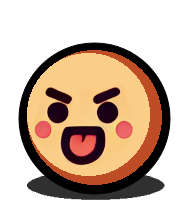
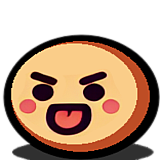
Добавлены методы для оживления колобка

diff --git a/game/engine.py b/game/engine.py
@@ -1,47 +1,90 @@
 # Основные механики игры
 import pygame as pg
 import time
-from game.resources import load_resources, load_music
+import game.resources as res
 from game.input_handler import handle_events
 
 
 class GameEngine:
-    x = 235
-    y = 28
+    kolobok_height = 50
+    old_kolobok_x = 260
+    old_kolobok_y = 28
+    kolobok_x = old_kolobok_x
+    kolobok_y = old_kolobok_y
+    # Параметры платформ
+    top_platform_y = old_kolobok_y + kolobok_height
+    bottom_platform_y = 650
+    top_platform_length = 300
+    bottom_platform_length = 1000
+    kolobok_running = False
+    # Физические параметры
+    gravity = 5
+    new_x_speed = 5
+    x_speed = 0
+    y_speed = -1
+    falling = False
+    time_elapsed = 0
 
     def __init__(self):
         self.clock = pg.time.Clock()
-        self.font28, self.font22, self.bg, self.kolobok, self.lisa, self.medved, self.zayac = load_resources()
-        self.medved = pg.transform.flip(self.medved, True, False)  # Отражение по горизонтали
+        self.font28, self.font22 = res.load_fonts()
+        self.bg, self.kolobok, self.lisa, self.medved, self.zayac = res.load_images()
 
     def run(self, screen):
-        load_music()
+        res.load_music()
         pg.mixer.music.play(loops=-1)
         pg.mixer.music.set_volume(0.125)
         running = True
         while running:
             running = handle_events()
             if running == 'L':
-                self.x -= 1
-            if running == 'R':
-                self.x += 1
-            if running == 'U':
-                self.y -= 1
-            if running == 'D':
-                self.y += 1
-            self.update(screen)
+                running = True
+                self.kolobok_x = self.old_kolobok_x
+                self.kolobok_y = self.old_kolobok_y
+                self.x_speed = 0
+                self.kolobok_running = False
+
+            elif running == 'R':
+                self.kolobok_x += 1
+            elif running == 'U':
+                self.kolobok_y -= 1
+            elif running == 'D':
+                self.kolobok_y += 1
+
+            if isinstance(running, str):
+                self.kolobok_running = True
+                self.x_speed = self.new_x_speed
+
+            self.update()
             self.render(screen)
             pg.display.flip()
             self.clock.tick(60)
 
-    def update(self, screen):
-        # Обновление состояния игры, если необходимо
-        pass
+    def update(self):
+        if (self.top_platform_length - self.kolobok_height // 2) <= self.kolobok_x and (
+                self.kolobok_y + self.kolobok_height) < self.bottom_platform_y:
+            self.falling = True  # Колобок падает
+
+        if self.falling:
+            self.time_elapsed += 0.2  # Увеличиваем время падения
+            # Параболическая траектория: y = v0 * t + 0.5 * g * t^2
+            self.kolobok_y += self.y_speed * self.time_elapsed + 0.5 * self.gravity * self.time_elapsed ** 2
+
+            if self.kolobok_y >= self.bottom_platform_y - self.kolobok_height // 2:  # Колобок достиг платформы
+                self.kolobok_y = self.bottom_platform_y - self.kolobok_height  # Колобка ставим на платформу
+                self.falling = False  # Падение завершено
+                self.time_elapsed = 0  # Обнуляем время падения
+
+        if self.bottom_platform_length - self.kolobok_height > self.kolobok_x:  # Пока Колобок на платформе
+            self.kolobok_x += self.x_speed  # Колобок двигается вправо
 
     def render(self, screen):
         screen.blit(self.bg, (0, 0))
         t = int(time.time() * 10 % 4)
-        screen.blit(self.kolobok, (self.x, self.y + t))
+        if not self.kolobok_running:
+            screen.blit(self.kolobok[0], (self.kolobok_x, self.kolobok_y - t))
+        else:
+            screen.blit(self.kolobok[2][(self.kolobok_x // 5) % 31], (int(self.kolobok_x), int(self.kolobok_y - t)))
         screen.blit(self.lisa, (10, 360))
         screen.blit(self.medved, (730, 460))
         screen.blit(self.zayac, (950, 400))

diff --git a/game/resources.py b/game/resources.py
@@ -1,21 +1,33 @@
 import pygame as pg
 
 
-def load_resources():
+def load_fonts():
     font28 = pg.font.Font('res/font/arialbi.ttf', 28)
     font22 = pg.font.Font('res/font/arialbi.ttf', 22)
+    return font28, font22
 
+
+def load_images():
     bg = pg.image.load('res/graphics/fon_03.jpg').convert()
-    kolobok_image = pg.image.load('res/graphics/Kolobok_god_mode.png').convert_alpha()
-    kolobok = pg.transform.scale(kolobok_image, (50, 50))  # Масштабирование
+    kolobok_image_god = pg.image.load('res/graphics/Kolobok_god_mode.png').convert_alpha()
+    kolobok_image = pg.image.load('res/graphics/Kolobok01.png').convert_alpha()
+    kolobok_list = []
+    for i in range(31):
+        kolobok_ = pg.transform.rotate(kolobok_image, -i * 11.6129)
+        kolobok = pg.transform.scale(kolobok_, (50, 50))  # Масштабирование
+        kolobok_list.append(kolobok)
+    kolobok = [pg.transform.scale(kolobok_image_god, (50, 50)), \
+               pg.transform.scale(kolobok_image, (50, 50)),\
+               kolobok_list]
     lisa_image = pg.image.load('res/graphics/lisa.png').convert_alpha()
     lisa = pg.transform.scale(lisa_image, (282, 360))  # Масштабирование
     medved_image = pg.image.load('res/graphics/medved.png').convert_alpha()
     medved = pg.transform.scale(medved_image, (160, 160))  # Масштабирование
+    medved = pg.transform.flip(medved, True, False)  # Отражение по горизонтали
     zayac_image = pg.image.load('res/graphics/zayac01.png').convert_alpha()
     zayac = pg.transform.scale(zayac_image, (282, 360))  # Масштабирование
 
-    return font28, font22, bg, kolobok, lisa, medved, zayac
+    return bg, kolobok, lisa, medved, zayac
 
 
 def load_music():

diff --git a/move.py b/move.py
@@ -4,13 +4,6 @@ from game.input_handler import handle_events
 
 
 def run_move(screen):
-    # Загрузка звука
-    pg.mixer.init()
-    pg.mixer.music.load('move/intro.mp3')
-
-    # Запуск воспроизведения звука
-    pg.mixer.music.play()
-
     # Время отображения каждого изображения (в секундах)
     interval = 0.18
     total_time = 28  # Общее время отображения (в секундах)
@@ -19,6 +12,13 @@ def run_move(screen):
     # Основной цикл отображения изображений
     start_time = time.time()
     frame_number = 1
+
+    # Загрузка звука
+    pg.mixer.init()
+    pg.mixer.music.load('move/intro.mp3')
+
+    # Запуск воспроизведения звука
+    pg.mixer.music.play()
 
     while (time.time() - start_time) < total_time:
         if not handle_events():
